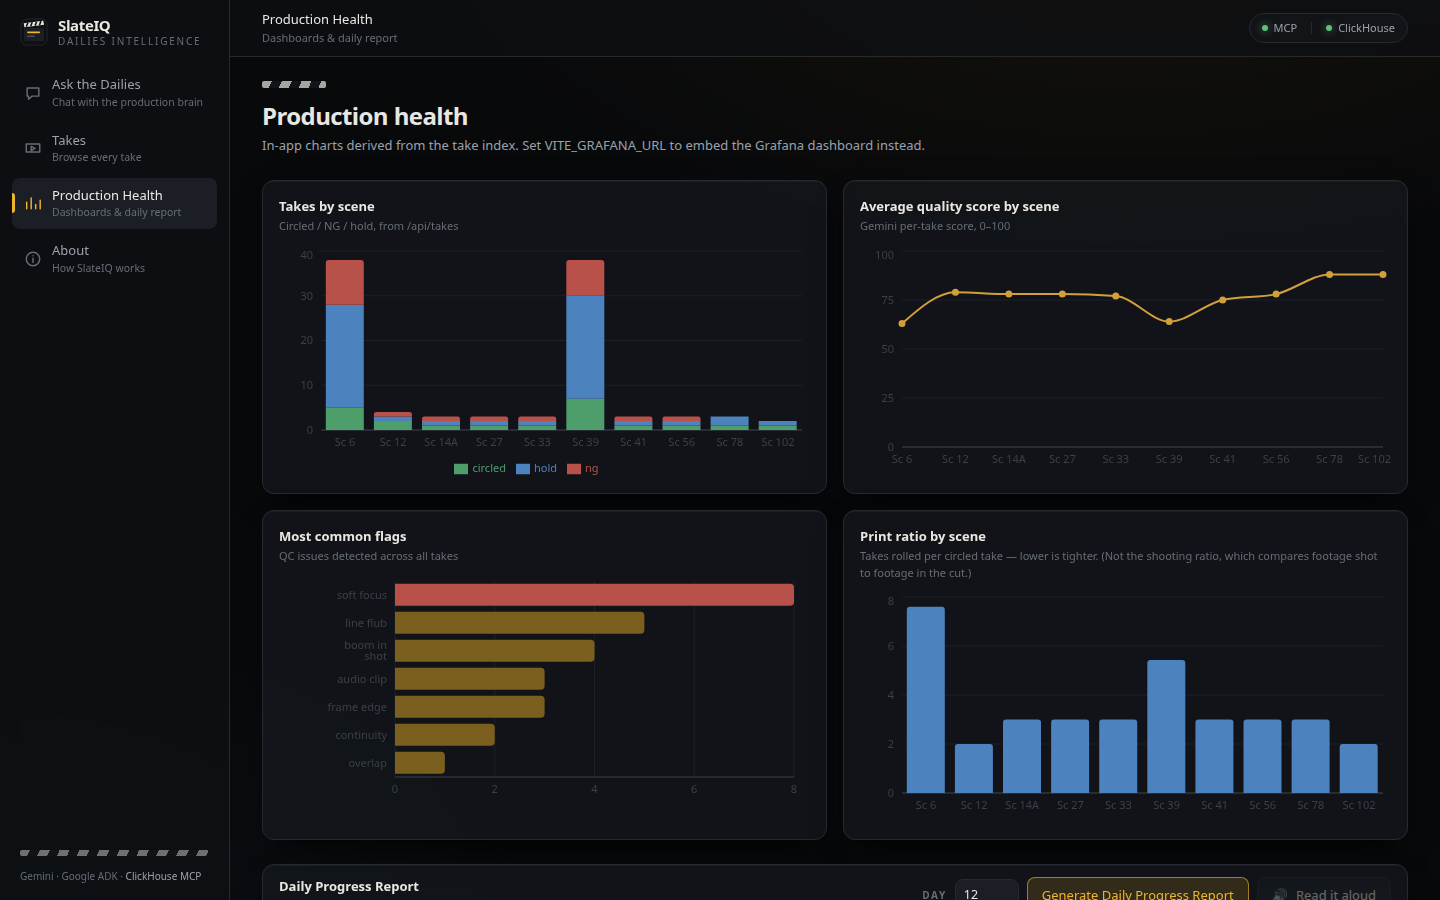
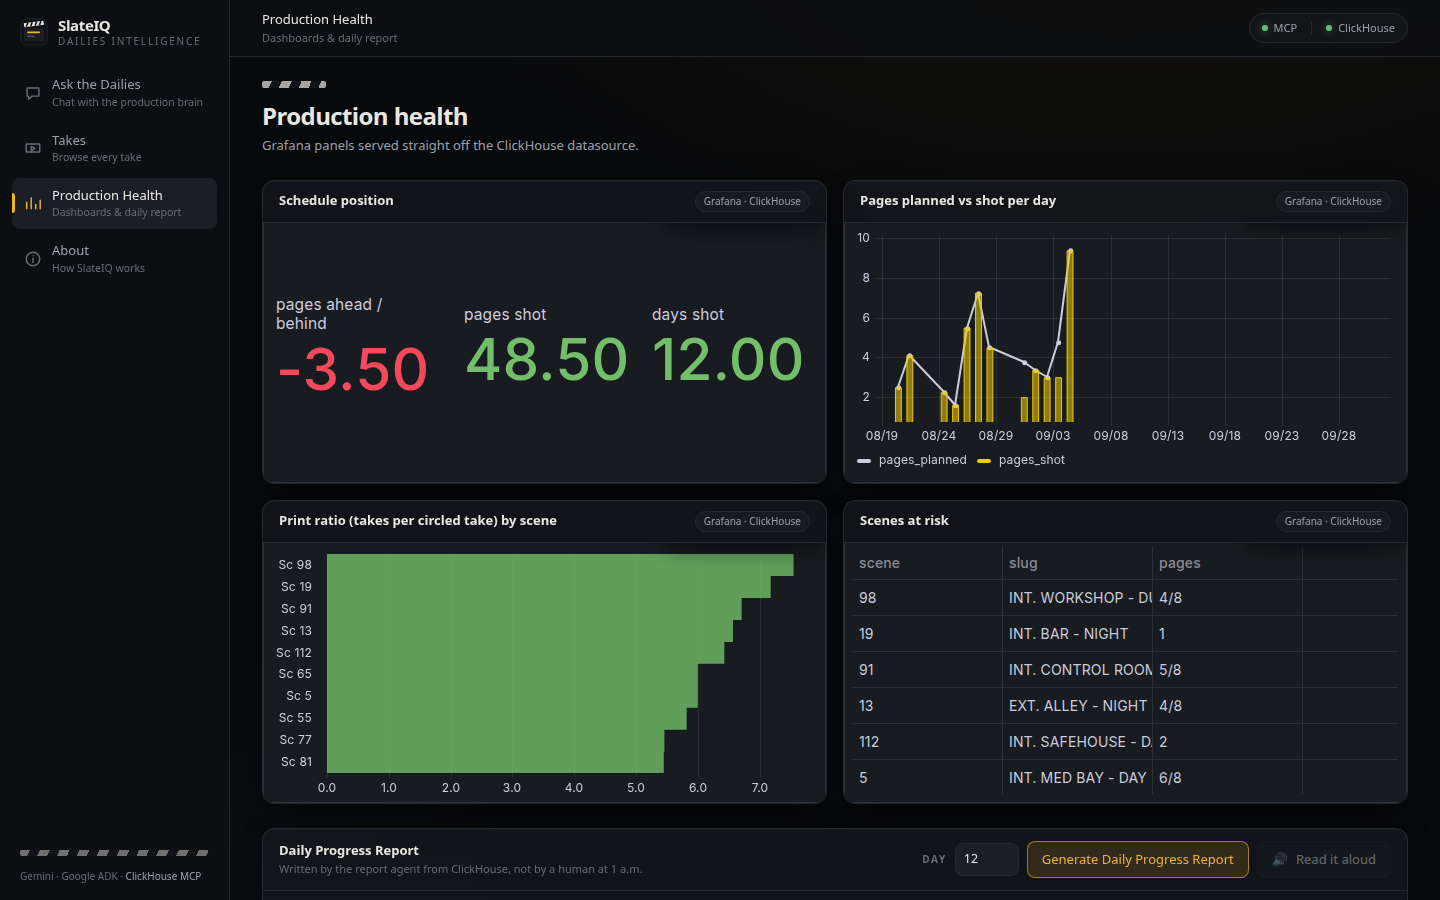
docs: real cold-start number, hosted screenshots, submission status
- README: "3-5 s cold start" was a guess; the Cloud Run logs say 15.7 s
  (the ADK import), warm ~0.6 s. min-instances stays 0 -- the honest number
  beats an invisible bill.
- docs/img/takes.png + health.png re-taken from the hosted URL: 24/24 posters,
  four live Grafana panels.
- deploy/OUTPUT.md: /api/config, the media-rewrite env contract and the full
  re-verification transcript. docs/SUBMISSION.md: the four blocked rows are
  now verified. docs/TRACKING.md appended.

diff --git a/docs/SUBMISSION.md b/docs/SUBMISSION.md
@@ -10,11 +10,11 @@ Evidence and repro for every line: [`JUDGE_REVIEW_2.md`](JUDGE_REVIEW_2.md).
 | Google Cloud | Gemini (google-genai/ADK), Cloud Run, GCS, Secret Manager | ✅ **verified live** — `gemini-3.5-flash` + `gemini-2.5-flash-preview-tts` reported by `/api/health`; two Cloud Run services; public GCS bucket (48 objects, `access-control-allow-origin: *`); 2 Secret Manager secrets | deploy/OUTPUT.md |
 | Hosted URL | public, testable by judges | ✅ **200, no auth** — 4 questions answered end to end (20 s / 28 s / 45 s / 2.4 s refusal); 0 console errors; clean at 390 px | https://slateiq-957930801789.us-central1.run.app |
 | — Grafana dashboard | anonymous, embeddable, data in every panel | ✅ **8/8 panels return data, 0 "No data"**, anonymous Viewer, cross-origin iframe loads | https://slateiq-grafana-hbissixc2q-uc.a.run.app/d/slateiq-prod-health |
-| — Clips + thumbnails in the hosted UI | takes play, posters render | ☐ **BROKEN** — `/clips/*` 404s and `/thumbs/*` returns the SPA HTML; the files are fine on GCS. `.gcloudignore` excludes `data/`. **P0 #1/#2** | JUDGE_REVIEW_2.md |
-| — Grafana embedded in the product | Production Health shows the panels | ☐ **not wired** — screen shows "Set `VITE_GRAFANA_URL` …"; dashboard UID default is also wrong. **P1 #4/#5** | JUDGE_REVIEW_2.md |
+| — Clips + thumbnails in the hosted UI | takes play, posters render | ✅ **fixed & verified 5 Sep 16:37 UTC** — the server rewrites relative `clip_uri`/`thumb_uri` to `$CLIPS_BASE_URL` at response time, so `/api/takes?scene=27` returns `https://storage.googleapis.com/…` (clip `200 video/mp4`, thumb `200 image/jpeg`). Hosted Takes: **24/24 posters load, a clip plays inline** (1280×534, `readyState 4`), 0 console errors. `data/thumbs` is also baked into the image; `/thumbs/*` now 404s honestly instead of returning the SPA HTML | docs/img/takes.png |
+| — Grafana embedded in the product | Production Health shows the panels | ✅ **fixed & verified** — new `GET /api/config` hands the static build the server env at boot, so the screen embeds four `d-solo` iframes on the real UID `slateiq-prod-health` with the real panel ids/titles (2 Schedule position · 1 Pages planned vs shot · 3 Print ratio by scene · 8 Scenes at risk), pinned to the shoot's time range. Grafana's own title bar is clipped so the title is not printed twice | docs/img/health.png |
 | Public repo | GitHub, complete source + run instructions | ✅ public, description set, 29/29 relative links resolve, all 6 screenshots load, mermaid fence recognised | https://github.com/kaitorecca/slateiq |
-| — README live URLs | hosted URL above the fold | ☐ **4× `<<PENDING>>` placeholders** still in the Live table + the curl; repo `homepage` field unset. **P0 #3** | README.md |
-| — README eval numbers | match the linked artifact | ☐ README says 15/16 · 4.07/5; committed `agent/evals/last_run.md` says **16/16 · 4.88/5 · median 39.3 s**. **P1 #7** | agent/evals/last_run.md |
+| — README live URLs | hosted URL above the fold | ✅ **fixed** — Live table and the reproduce-it curl carry the real URLs; repo `homepage` set to the Cloud Run URL and 6 topics added (`gemini`, `google-adk`, `clickhouse`, `mcp`, `hackathon`, `film-production`) | README.md |
+| — README eval numbers | match the linked artifact | ✅ **fixed** — README now states the committed 28-question run: **28/28 reached `run_query`, 27/28 routed, judge mean 4.82/5, median latency 27.3 s**. No partial run was committed | agent/evals/last_run.md |
 | License | OSI license file visible in About | ✅ **Apache-2.0** — GitHub sidebar + About screen | https://github.com/kaitorecca/slateiq/blob/main/LICENSE |
 | Footage attribution | *Tears of Steel* CC BY 3.0 | ✅ in README and on the hosted About screen, with links to mango.blender.org and the licence | About screen |
 | Video | ≤ 3 min, YouTube/Vimeo public, English | ☐ not shot / not published | docs/DEMO_SCRIPT.md → video/ |
@@ -25,7 +25,9 @@ Evidence and repro for every line: [`JUDGE_REVIEW_2.md`](JUDGE_REVIEW_2.md).
 
 ## Open risks
 
-- **Cold start unmeasured.** Every probe in this pass was warm (`/api/health` TTFB 0.73 s). Revision
-  has no `minScale`; the image is 565 MB. Measure once from idle, or keep the service warm during
-  judging.
-- **First DPR is ~200 s** on the hosted service — the pre-warmed cache is excluded from the image.
+- **Cold start measured: ~16 s.** Cloud Run logs, instance start → `Application startup complete`,
+  is 15.7 s; it is the ADK import, not the database. Warm requests are ~0.6 s. `min-instances`
+  stays 0 because an idle instance costs money and the free tier is the whole point; the README
+  states the real number rather than the old "3–5 s" guess.
+- **First DPR is now 0.7 s** — `data/cache/reports` and `data/cache/tts` ship in the image, so
+  day 12's report and its read-aloud are served from the pre-warmed cache (was ~200 s).

diff --git a/docs/TRACKING.md b/docs/TRACKING.md
@@ -41,3 +41,4 @@
 | 16:40 | judge #2 | docs/JUDGE_REVIEW_2.md hosted score 16/20 (tech 5, design 3): P0 clips/thumbs 404 on Cloud Run, README pending URLs, Grafana embed config; Grafana 8/8 panels data, 0 console errors | done |
 | 16:41 | orchestrator | launched release engineer to fix hosted P0/P1 (GCS media rewrite, /api/config, README URLs, bake caches) + redeploy; video producer running | in progress |
 | 16:27 | orchestrator | tick: release eng committed hosted-media/config/README fixes (redeploy pending); trailer rendered (720p 9MB) awaiting producer QC report | in progress |
+| 16:45 | release eng | **Hosted P0/P1 from JUDGE_REVIEW_2 closed; two Cloud Run + one Grafana redeploy; revision `slateiq-00007-jnp` live and verified.** **(1) Media (P0 #1/#2):** `agent/main.py` now rewrites relative `clip_uri`/`thumb_uri` → `${CLIPS_BASE_URL}/…` **at response time** in `/api/takes`, `/api/take/{id}/events` and `_enrich_takes()` (so cited takes in an answer get GCS URLs too, before the `final` SSE event). Local behaviour is byte-identical when the env var is unset. `/clips/*` and `/thumbs/*` are excluded from the SPA `index.html` catch-all, so a missing poster is now a real **404 application/json** instead of a silent `200 text/html`. `.gcloudignore` inverted (ignore `data/footage|clips|seed_export`, `data/cache/*.json`, `video/`; keep `data/thumbs` 376 KB + `data/cache/reports` 24 KB + `data/cache/tts` 3.7 MB) and `agent/Dockerfile` COPYs them + sets `THUMBS_DIR`. Result: **24/24 posters load, a clip plays inline on the hosted UI**, and **`/api/report/dpr?day=12` is 0.67 s (was ~200 s)**. Clips stay on GCS — 42 MB never enters the image. **(2) Runtime config (P1 #4/#5):** new **`GET /api/config`** returns `{app_url, grafana_url, grafana_dash_uid, grafana_panels[], mcp_health_url, repo_url, clips_base_url}` from server env — the only way server config can reach a static Vite build. `web/src/config.ts` exports **live `let` bindings** and `loadRuntimeConfig()` (awaited in `main.tsx`, 3 s timeout, never rejects, `VITE_*`/literals stay the fallback); `Health.tsx` stopped reading `import.meta.env` directly. Real UID **`slateiq-prod-health`** and real panels **2 Schedule position · 1 Pages planned vs shot per day · 3 Print ratio by scene · 8 Scenes at risk**, `&theme=dark&kiosk` plus the dashboard's own time range and template vars (Grafana's default "last 6 h" would have rendered every panel empty). Each `d-solo` frame is 46 px taller than its window and slid up by that, so Grafana's title bar is clipped and the title isn't printed twice. `deploy_agent.sh` now sets `APP_URL`/`GRAFANA_DASH_UID`/`GRAFANA_PANELS`/`REPO_URL`. **(3) README (P0 #3):** the four `<<PENDING>>` and `<HOSTED_URL>` replaced with the real URLs; evals corrected to the committed **28-question** run (**28/28 `run_query`, 27/28 routed, judge 4.82/5, median 27.3 s** — the earlier "15/16 · 4.07/5" understated it; no partial run was in the tree, nothing to restore); `gh repo edit` set **homepage** + 6 topics. **(4) Cold start (P2 #8): measured, not guessed — 15.7 s** from the Cloud Run logs (`Starting new instance` → `Application startup complete`; it's the ADK import), warm ~0.6 s. `min-instances` stays 0 and the README says the real number. **Also, while the panels were now inside the product (P2 #11/#12):** dashboard panel 3 `LIMIT 20`→`LIMIT 10` (20 scenes in a 260 px embed was one solid green mass) and panel 8's `pages` column renders **eighths** (`4/8`, `1`, `5/8`) instead of `0.500`/`0.620` — the one place decimals leaked out of an eighths project. Grafana redeployed. **Verified on the hosted URL:** `/api/health` `ok:true mcp:up clickhouse:up`; `/api/config` correct; `/api/takes?scene=27` returns `https://storage.googleapis.com/…`; `curl -I` on that clip → `200 video/mp4` w/ CORS `*`, on that thumb → `200 image/jpeg`; DPR day 12 0.67 s; Chrome DevTools at 1440×900 — clip plays (`readyState 4`, 1280×534), 4 Grafana iframes with data, **0 console errors**. `docs/img/takes.png` + `health.png` re-taken from the **hosted** URL. `deploy/OUTPUT.md` + `docs/SUBMISSION.md` updated. **Left for someone else:** the video URL is still unpublished (README + SUBMISSION say so honestly), and JUDGE_REVIEW_2 P2 #10/#13/#14/#16 + the "hero prompt on the Ask screen" suggestion are untouched. | done |

diff --git a/deploy/OUTPUT.md b/deploy/OUTPUT.md
@@ -1,6 +1,6 @@
 # deploy/OUTPUT.md — live SlateIQ endpoints
 
-Last verified: **2026-09-05 ~05:00 UTC** · project `gke-hackathon-472816` · region `us-central1`
+Last verified: **2026-09-05 ~16:40 UTC** (revision `slateiq-00007-jnp`) · project `gke-hackathon-472816` · region `us-central1`
 
 Secrets referenced below live in `.secrets/deploy.env` (gitignored). Nothing here is a secret.
 
@@ -22,8 +22,18 @@ Secrets referenced below live in `.secrets/deploy.env` (gitignored). Nothing her
 ```bash
 CLICKHOUSE_MCP_URL=https://35.239.36.85.sslip.io/mcp
 CLICKHOUSE_MCP_TOKEN=<.secrets/deploy.env: CLICKHOUSE_MCP_TOKEN>   # sent as: Authorization: Bearer <token>
+# Media. When set, the server rewrites relative clip_uri/thumb_uri ("clips/x.mp4") to absolute
+# GCS URLs in /api/takes, /api/take/{id}/events and the take enrichment that runs before the
+# `final` SSE event. Unset = local behaviour (files served from /clips and /thumbs).
 CLIPS_BASE_URL=https://storage.googleapis.com/slateiq-media-gke-hackathon-472816
+
+# Served to the browser by GET /api/config. web/ is a static Vite build, so VITE_* is frozen at
+# build time; this is the only path by which server config reaches the SPA.
+APP_URL=https://slateiq-957930801789.us-central1.run.app
 GRAFANA_URL=https://slateiq-grafana-hbissixc2q-uc.a.run.app
+GRAFANA_DASH_UID=slateiq-prod-health
+GRAFANA_PANELS=2:Schedule position,1:Pages planned vs shot per day,3:Print ratio (takes per circled take) by scene,8:Scenes at risk
+REPO_URL=https://github.com/kaitorecca/slateiq
 
 # Direct read-only ClickHouse — UI takes-gallery passthrough ONLY, never agent reasoning.
 CLICKHOUSE_HOST=35.239.36.85.sslip.io
@@ -101,6 +111,45 @@ event: final   "On Day 12, we shot a total of **175 takes**, of which **38 were 
 $ curl -sI https://storage.googleapis.com/slateiq-media-gke-hackathon-472816/clips/TOS-D12-S12-A-01-A.mp4
 HTTP/2 200 · content-type: video/mp4 · cache-control: public, max-age=31536000, immutable
 ```
+
+### Hosted media + runtime config (re-verified 16:40 UTC, revision `slateiq-00007-jnp`)
+
+```
+$ curl -s .../api/config
+{"app_url":"https://slateiq-957930801789.us-central1.run.app",
+ "grafana_url":"https://slateiq-grafana-hbissixc2q-uc.a.run.app",
+ "grafana_dash_uid":"slateiq-prod-health",
+ "grafana_panels":[{"id":"2","title":"Schedule position"},
+                   {"id":"1","title":"Pages planned vs shot per day"},
+                   {"id":"3","title":"Print ratio (takes per circled take) by scene"},
+                   {"id":"8","title":"Scenes at risk"}],
+ "mcp_health_url":"https://35.239.36.85.sslip.io/health",
+ "repo_url":"https://github.com/kaitorecca/slateiq",
+ "clips_base_url":"https://storage.googleapis.com/slateiq-media-gke-hackathon-472816"}
+
+$ curl -s '.../api/takes?scene=27&limit=3'   # media URLs are absolute, not "clips/x.mp4"
+TOS-D12-S27-A-01-A | https://storage.googleapis.com/slateiq-media-.../clips/TOS-D12-S27-A-01-A.mp4
+                   | https://storage.googleapis.com/slateiq-media-.../thumbs/TOS-D12-S27-A-01-A.jpg
+
+$ curl -sI <that clip>   -> HTTP/2 200 · video/mp4  · 1,620,774 B · access-control-allow-origin: *
+$ curl -sI <that thumb>  -> HTTP/2 200 · image/jpeg ·    11,529 B
+$ curl -sI .../thumbs/TOS-D12-S27-A-01-A.jpg  -> HTTP/2 200 · image/jpeg (baked into the image too)
+$ curl -s -o /dev/null -w '%{http_code} %{content_type}' .../thumbs/nope.jpg  -> 404 application/json
+   (was 200 text/html — the SPA catch-all used to swallow every missing poster)
+
+$ curl -s -o /dev/null -w '%{time_total}' '.../api/report/dpr?day=12'   -> 0.67 s  (was ~200 s)
+```
+
+Browser check on the hosted URL at 1440×900 (Chrome DevTools): Takes shows **24/24 posters loaded**
+and a clip plays inline (`currentSrc` = the GCS URL, 1280×534, `readyState 4`); Production Health
+renders **4 live Grafana `d-solo` iframes**; **0 console errors**.
+
+### Cold start
+
+`min-instances` stays **0** (an idle instance is the one thing that would cost money). Measured
+from the Cloud Run logs, `Starting new instance` → `Application startup complete` = **15.7 s**,
+which is the ADK import, not ClickHouse. Warm: **~0.6 s** for `/` and `/api/health`. Documented in
+the README instead of papered over with a warm-up cron.
 
 ## Hosted data (seeded from local ClickHouse, exact row-count match)
 

diff --git a/README.md b/README.md
@@ -56,8 +56,12 @@ circled) against **3.07 M rows of independently measured frame telemetry** (this
 | **Clips + poster frames (GCS)** | `https://storage.googleapis.com/slateiq-media-gke-hackathon-472816` |
 | **Repo** | <https://github.com/kaitorecca/slateiq> |
 
-> Cloud Run runs at `min-instances 0` on the free tier — **if the first request takes 3–5 seconds,
-> that is a cold start**, not the database. Every request after it is warm.
+> Cloud Run runs at `min-instances 0` on the free tier, because idle instances cost money and a
+> hackathon budget is zero. **A cold start is ~16 s** — measured from the Cloud Run logs, container
+> start to `Application startup complete`; it is the ADK import, not the database. Warm requests
+> are **~0.6 s** to the UI and to `/api/health`. If the first click feels slow, that is the whole
+> explanation; everything after it is warm. (Keeping it warm would mean `min-instances 1`, which
+> leaves the free tier, so we chose the honest number over the invisible bill.)
 
 Reproduce the partner call in ten seconds — the SSE stream emits the `run_query` tool call, the
 generated SQL and the row count as they happen:
